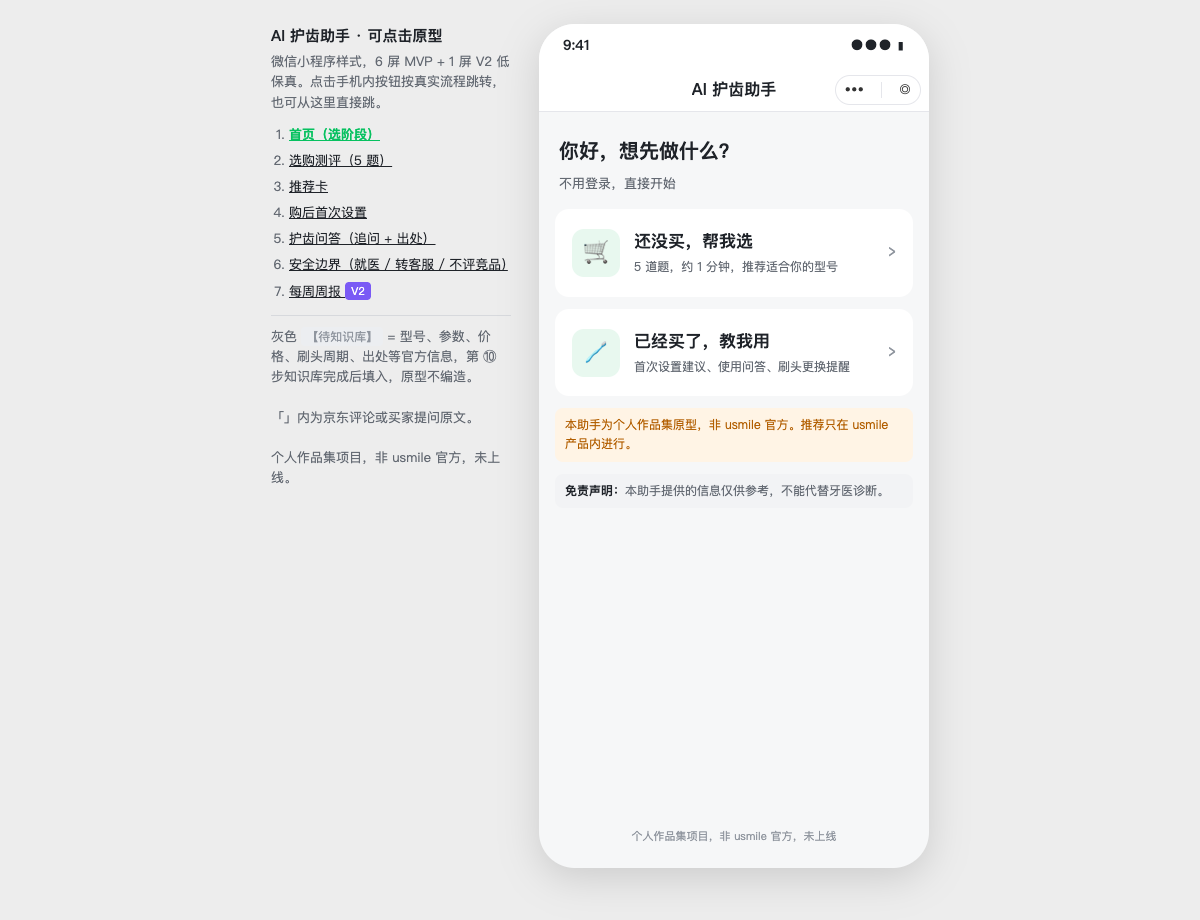
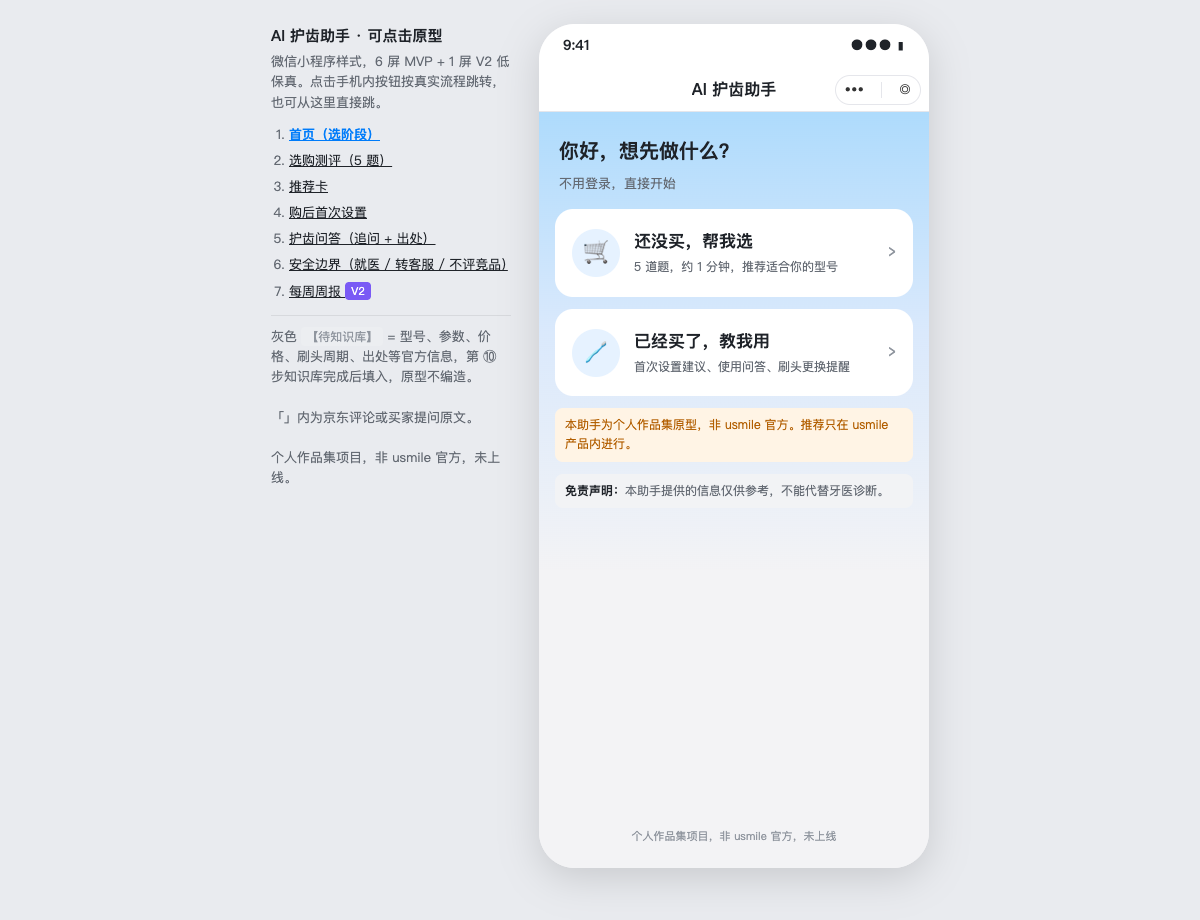
原型改为 usmile App 蓝色主题（D30）并重跑截图
- 主色 #007CFA、底色 #F3F3F5、首页浅蓝渐变，按钮胶囊圆角
- 只借用配色，不用商标；截图 19 张，溢出检查通过，引用 0 错误

Changed region(s): [[0.4317, 0.1217, 0.8017, 0.3957], [0.2467, 0.1217, 0.3083, 0.1522]]

diff --git a/prototype/index.html b/prototype/index.html
@@ -7,8 +7,8 @@
 <!-- 个人作品集项目，非 usmile 官方，未上线。所有【待知识库】处在步骤 ⑩ 知识库完成后填入官方资料，不得编造。 -->
 <style>
 :root{
-  --bg:#ededed; --page:#f6f7f8; --card:#fff; --text:#1f2329; --sub:#646a73; --line:#e5e6eb;
-  --brand:#07c160; --brand-weak:#e8f8ef; --warn:#d83931; --warn-weak:#fdecea; --amber:#b25e00; --amber-weak:#fff4e5;
+  --bg:#e9ebef; --page:#f3f3f5; --card:#fff; --text:#1f2329; --sub:#646a73; --line:#e5e6eb;
+  --brand:#007cfa; --brand-weak:#e6f2ff; --brand-text:#0062c4; --sky:#aedbfc; --warn:#d83931; --warn-weak:#fdecea; --amber:#b25e00; --amber-weak:#fff4e5;
   --ph-bg:#eceef1; --ph-text:#8f959e; --v2:#7a5af5;
 }
 *{box-sizing:border-box;margin:0;padding:0}
@@ -33,7 +33,7 @@ button{font:inherit;color:inherit;border:0;background:none;cursor:pointer}
 .screen.on{display:flex}
 .body{flex:1;padding:16px}
 .foot{padding:14px 16px 22px;font-size:11px;color:var(--ph-text);text-align:center;line-height:1.6}
-.card{background:var(--card);border-radius:12px;padding:16px;margin-bottom:12px}
+.card{background:var(--card);border-radius:16px;padding:16px;margin-bottom:12px}
 .h2{font-size:20px;font-weight:700;margin-bottom:6px}
 .sub{color:var(--sub);font-size:13px}
 .small{font-size:12px;color:var(--sub)}
@@ -41,20 +41,21 @@ button{font:inherit;color:inherit;border:0;background:none;cursor:pointer}
 .tag{display:inline-block;font-size:11px;padding:0 6px;border-radius:4px;line-height:18px;vertical-align:1px}
 .tag.assume{background:var(--amber-weak);color:var(--amber)}
 .tag.v2{background:var(--v2);color:#fff}
-.tag.green{background:var(--brand-weak);color:#067d3e}
-.btn{display:block;width:100%;height:46px;border-radius:8px;background:var(--brand);color:#fff;font-size:16px;font-weight:600;text-align:center}
-.btn[disabled]{background:#a9e4c3;cursor:not-allowed}
+.tag.hl{background:var(--brand-weak);color:var(--brand-text)}
+.btn{display:block;width:100%;height:46px;border-radius:23px;background:var(--brand);color:#fff;font-size:16px;font-weight:600;text-align:center}
+.btn[disabled]{background:#9ccbfd;cursor:not-allowed}
 .btn.ghost{background:var(--card);color:var(--text);border:1px solid var(--line)}
 .btn+.btn{margin-top:10px}
 .row{display:flex;gap:10px}
 .row>.btn{margin-top:0}
 .disclaimer{font-size:12px;color:var(--sub);background:#f2f3f5;border-radius:8px;padding:8px 10px;margin-top:10px}
 .disclaimer b{color:var(--text)}
-/* 首页 */
+/* 首页：顶部浅蓝渐变，参照 usmile App“我的”页的配色 */
+#s-home{background:linear-gradient(180deg,var(--sky) 0,#dae9fc 220px,var(--page) 460px)}
 .hero{padding:8px 4px 16px}
-.entry{display:flex;align-items:center;gap:14px;background:var(--card);border-radius:14px;padding:18px 16px;margin-bottom:12px;width:100%;text-align:left;border:1px solid transparent}
+.entry{display:flex;align-items:center;gap:14px;background:var(--card);border-radius:18px;padding:18px 16px;margin-bottom:12px;width:100%;text-align:left;border:1px solid transparent}
 .entry:hover{border-color:var(--brand)}
-.entry .ic{width:48px;height:48px;border-radius:12px;background:var(--brand-weak);display:flex;align-items:center;justify-content:center;font-size:24px;flex:none}
+.entry .ic{width:48px;height:48px;border-radius:50%;background:var(--brand-weak);display:flex;align-items:center;justify-content:center;font-size:24px;flex:none}
 .entry .t{font-size:17px;font-weight:600}
 .entry .arr{margin-left:auto;color:var(--ph-text);font-size:20px}
 .note{font-size:12px;color:var(--amber);background:var(--amber-weak);border-radius:8px;padding:8px 10px;margin-bottom:12px}
@@ -78,7 +79,7 @@ button{font:inherit;color:inherit;border:0;background:none;cursor:pointer}
 .kv>span:first-child{color:var(--sub);flex:none;min-width:64px;white-space:nowrap}
 .reason{display:flex;gap:10px;padding:10px 0;border-top:1px solid var(--line)}
 .reason:first-of-type{border-top:0}
-.reason .n{width:20px;height:20px;border-radius:50%;background:var(--brand-weak);color:#067d3e;font-size:12px;font-weight:700;display:flex;align-items:center;justify-content:center;flex:none;margin-top:2px}
+.reason .n{width:20px;height:20px;border-radius:50%;background:var(--brand-weak);color:var(--brand-text);font-size:12px;font-weight:700;display:flex;align-items:center;justify-content:center;flex:none;margin-top:2px}
 .caution{background:var(--amber-weak);border-radius:10px;padding:12px 14px;font-size:14px;margin-bottom:12px}
 .caution b{color:var(--amber)}
 .bleed{background:var(--warn-weak);color:var(--warn);border-radius:8px;padding:8px 10px;font-size:13px;font-weight:600;margin-top:10px}
@@ -91,7 +92,7 @@ button{font:inherit;color:inherit;border:0;background:none;cursor:pointer}
 .field>.lbl{font-size:14px;font-weight:600;margin-bottom:8px}
 .seg{display:flex;flex-wrap:wrap;gap:8px}
 .seg button{padding:7px 12px;border:1.5px solid var(--line);border-radius:18px;background:var(--card);font-size:14px}
-.seg button.sel{border-color:var(--brand);background:var(--brand-weak);color:#067d3e}
+.seg button.sel{border-color:var(--brand);background:var(--brand-weak);color:var(--brand-text)}
 input[type=date]{font:inherit;padding:8px 10px;border:1.5px solid var(--line);border-radius:8px;width:100%;background:var(--card)}
 .result .item{padding:10px 0;border-top:1px solid var(--line)}
 .result .item:first-of-type{border-top:0}
@@ -108,17 +109,17 @@ input[type=date]{font:inherit;padding:8px 10px;border:1.5px solid var(--line);bo
 .chat{flex:1;padding:12px 12px 4px;display:flex;flex-direction:column;gap:10px}
 .msg{max-width:84%;padding:10px 12px;border-radius:12px;font-size:14px;word-break:break-word}
 .msg.bot{background:var(--card);align-self:flex-start;border-top-left-radius:4px}
-.msg.user{background:#95ec69;align-self:flex-end;border-top-right-radius:4px}
-.msg .src{display:block;font-size:11px;color:#3c6b2a;margin-top:2px}
+.msg.user{background:#d3e8ff;align-self:flex-end;border-top-right-radius:4px}
+.msg .src{display:block;font-size:11px;color:#3d6a9e;margin-top:2px}
 .msg .sec{margin-top:8px;padding-top:8px;border-top:1px dashed var(--line);font-size:13px}
 .msg .sec:first-child{margin-top:0;padding-top:0;border-top:0}
 .msg .k{color:var(--sub);font-size:12px}
 .chips{display:flex;flex-wrap:wrap;gap:8px;margin-top:8px}
 .chip{background:var(--card);border:1px solid var(--line);border-radius:16px;padding:5px 11px;font-size:13px;text-align:left}
-.chip.green{border-color:var(--brand);color:#067d3e}
+.chip.hl{border-color:var(--brand);color:var(--brand-text)}
 .feedback{display:flex;gap:8px;margin-top:8px}
 .feedback button{flex:1;border:1px solid var(--line);border-radius:6px;padding:4px 0;font-size:12px}
-.feedback button.sel{border-color:var(--brand);color:#067d3e;background:var(--brand-weak)}
+.feedback button.sel{border-color:var(--brand);color:var(--brand-text);background:var(--brand-weak)}
 .examples{padding:10px 12px;background:var(--page);border-top:1px solid var(--line)}
 .examples .small{margin-bottom:6px}
 .inputbar{display:flex;gap:8px;padding:8px 12px 10px;background:#f7f7f7;border-top:1px solid var(--line)}
@@ -134,7 +135,7 @@ input[type=date]{font:inherit;padding:8px 10px;border:1.5px solid var(--line);bo
 .alert.red{background:var(--warn-weak)}
 .alert.red .h{color:var(--warn)}
 .alert .h{font-size:18px;font-weight:700;margin-bottom:6px}
-.quote{background:var(--card);border-left:3px solid #95ec69;border-radius:6px;padding:8px 10px;font-size:14px;margin-bottom:12px}
+.quote{background:var(--card);border-left:3px solid var(--brand);border-radius:6px;padding:8px 10px;font-size:14px;margin-bottom:12px}
 .quote .small{display:block}
 .urgent{text-align:center;padding:28px 16px;background:var(--warn);color:#fff;border-radius:12px;margin-bottom:12px}
 .urgent .h{font-size:26px;font-weight:800}
@@ -400,9 +401,9 @@ input[type=date]{font:inherit;padding:8px 10px;border:1.5px solid var(--line);bo
             <div class="sub">告诉我你最在意什么，我按你的需求推荐合适的 usmile 型号。</div>
           </div>
           <div class="chips" style="margin-bottom:14px">
-            <button class="chip green" data-go="quiz">续航长</button>
-            <button class="chip green" data-go="quiz">安静或震感小</button>
-            <button class="chip green" data-go="quiz">护理牙龈</button>
+            <button class="chip hl" data-go="quiz">续航长</button>
+            <button class="chip hl" data-go="quiz">安静或震感小</button>
+            <button class="chip hl" data-go="quiz">护理牙龈</button>
           </div>
           <button class="btn" data-go="quiz">做 1 分钟选购测评</button>
         </div>
@@ -559,7 +560,7 @@ input[type=date]{font:inherit;padding:8px 10px;border:1.5px solid var(--line);bo
   function genSetup(){
     var unsure = st.model==='unsure';
     $('#setupResult').style.display='block';
-    $('#generalTag').innerHTML = unsure ? '<span class="general">通用建议 · 确认型号后给出针对性设置</span>' : '<span class="tag green">按你的型号和回答生成</span>';
+    $('#generalTag').innerHTML = unsure ? '<span class="general">通用建议 · 确认型号后给出针对性设置</span>' : '<span class="tag hl">按你的型号和回答生成</span>';
     $('#unsureHelp').style.display = unsure ? 'block':'none';
     var low = st.first==='yes' || st.sens==='yes';
     $('#levelText').innerHTML = low ? (unsure ? '<b>从最低档开始</b>（通用建议；确认型号后给出具体档位）' : '<b>该型号最低档</b>（第一次用或牙龈敏感，先从最低档开始）<br>'+PH('档位名称 + 说明书出处')) : PH('说明书中的推荐档位');
@@ -588,7 +589,7 @@ input[type=date]{font:inherit;padding:8px 10px;border:1.5px solid var(--line);bo
   $('#chatBox').addEventListener('click', function(e){
     var fb = e.target.closest('.feedback button'); if(fb){ $$('button',fb.parentNode).forEach(function(b){b.classList.remove('sel')}); fb.classList.add('sel'); return; }
     var m = e.target.closest('[data-model]'); if(m && !m.disabled){
-      $$('[data-model]', m.parentNode).forEach(function(b){b.disabled=true}); m.classList.add('green');
+      $$('[data-model]', m.parentNode).forEach(function(b){b.disabled=true}); m.classList.add('hl');
       addMsg('user', m.innerHTML);
       if(m.dataset.model==='unsure') addMsg('bot', '<span class="general">通用建议</span>'+answerCard('<div class="sec"><span class="k">怎么查看型号</span><br>'+PH('官方查看型号的方法')+'</div>'));
       else addMsg('bot', answerCard());

diff --git a/docs/DECISIONS.md b/docs/DECISIONS.md
@@ -35,3 +35,4 @@
 | D28 | 2026-10-16 | PRD 的读者和写法（Melody 提出） | — | PRD 面向研发、业务和管理层，按标准 PRD 结构改写：加阅读指引和术语表；删除版本记录、分工表、决策编号、验收标准编号、文件路径和内部字段名；分工改为“依赖”；原话编号放进隐藏注释；验收标准 ↔ 评测题对照移到 `eval/acceptance_mapping.md` | 读者没有参与项目，需要不看背景也能读懂并找到自己关心的信息；评测对照和引用核对仍保留，只是不出现在对外文档里 |
 | D29 | 2026-10-16 | 步骤 ⑨ 原型与 ⑩ 知识库的先后（Melody 选定） | A 先做原型、后做知识库 / B 先做知识库、原型直接填真实参数 | 选 A：先做 HTML 可点击原型（6 屏 + 周报 V2 低保真），官方信息全部显示【待知识库】占位；知识库在步骤 ⑩ 再做 | 原型先把流程和需要官方资料的位置标出来，作为 ⑩ 的资料清单；占位不编造，符合铁律 1、2 |
 | D30 | 2026-10-18 | 按 AI 产品 PRD 模板（林木）补章节（Melody 选定） | A 现在先改不依赖 Demo 的部分 / B 等 Demo 和评测后一次改 / C 只加 4 个关键章；竞品：A 用已有数据 / B 加上网调研；评测编号：放 PRD / 只放 eval 文件 | 选 A / A / 只放 eval 文件。PRD 改为 15 章 + 4 个附录：新增为什么用大模型、竞品分析、模型目标、P0–P2 需求清单、数据需求、业务和系统流程图（Mermaid）、模型选型、Prompt 设计、知识库、评测体系、效果保障、原型图、AI 能力边界、数据飞轮、上线与回滚；模型结论、完整 Prompt 和评测结果标【待评测】，Demo 后补 | 截止前先完成能写的部分，不编造评测结果；竞品数据已有、可追溯；PRD 不放内部编号（D28） |
+| D30 | 2026-10-18 | 原型主题色（Melody 提出） | — | 原型配色改为 usmile App 的蓝色主题（主色 #007CFA、浅灰底、浅蓝渐变），只借用配色，不使用商标和图标，“非 usmile 官方”说明不变 | 与品牌 App 风格一致，面试时更贴近真实产品；不用商标，避免被误认为官方页面 |

diff --git a/docs/METHODS.md b/docs/METHODS.md
@@ -364,6 +364,9 @@ LLM 打完标签后，我亲自抽检了 50 条，按型号分层随机抽，标
 - 引用核对：`index.html` 12 条 + `README.md` 11 条，共 23 条，0 错误。
 - 截图 19 张；手机宽度 390px 下溢出检查全部通过。人工看图后修了 3 处：“下次换刷头”标签折行、“我不确定”型号时仍写“该型号最低档”（改为通用建议）、就医页去掉一句可能被看作医疗建议的“先暂停使用”。
 
+**配色调整（D30，Melody 提出，2026-10-18）**
+- 主题色从微信绿改为 usmile App 的蓝色：从 Melody 提供的 App 截图取色，主色 #007CFA，页面底色 #F3F3F5，首页顶部浅蓝渐变（#AEDBFC → #DAE9FC）；按钮改为圆角胶囊，卡片圆角加大。只借用配色，不用 usmile 商标和图标，非官方说明保持不变。改完重跑截图 19 张，溢出检查通过，引用核对 0 错误。
+
 **局限**
 - 原型只有结构，没有官方内容；问答输入框只响应示例问题；订阅授权是模拟弹窗，真实规则【待核实】。
 - 没有做真实用户可用性测试。
